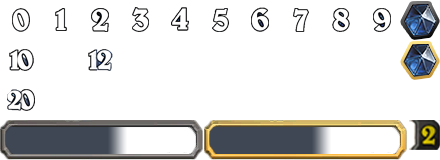
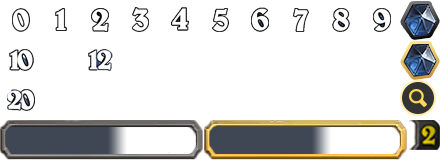
编辑卡牌左边完成

Changed region(s): [[0.8864, 0.5, 1.0, 0.75]]

diff --git a/data-lushichuanshuo-ka.html b/data-lushichuanshuo-ka.html
@@ -183,21 +183,82 @@
     
 	<div class="main">
     	<div class="head">
-        	<div class="group group_change">
-            	<div class="item">职业</div>
-                <div class="item">中立</div>
+        	<div class="td">
+            	<div class="group group_change">
+                    <div class="item on">职业</div>
+                    <div class="item">中立</div>
+                </div>
             </div>
-            <div class="group group_select">
-            	 稀有度
-                 <i></i>
+            <div class="td">
+            	<div class="group group_select">
+                    <div class="item">稀有度</div>
+                 	<i class="arrow"></i>
+                </div>
             </div>
-            <div class="group group_select">
-            	 费用
-                 <i></i>
+            <div class="td">
+            	<div class="group group_select">
+					<div class="item">费用</div>
+                 	<i class="arrow"></i>
+                </div>
             </div>
         </div>
-        <div class="concent">
+        <div class="maincard" id="maincard">
         	<div class="item">
+            	<div class="pic"><img src="images/lushichuanshuo/DBPic/79_7523_thumb.png"></div>
+                <div class="zoom"></div>
+                <p>恐怖的奴隶主恐怖</p>
+            </div>
+            <div class="item">
+            	<div class="pic"><img src="images/lushichuanshuo/DBPic/79_7523_thumb.png"></div>
+                <div class="zoom"></div>
+                <p>恐怖的奴隶主</p>
+            </div>
+            <div class="item">
+            	<div class="pic"><img src="images/lushichuanshuo/DBPic/79_7523_thumb.png"></div>
+                <div class="zoom"></div>
+                <p>恐怖的奴隶主</p>
+            </div>
+            <div class="item">
+            	<div class="pic"><img src="images/lushichuanshuo/DBPic/79_7523_thumb.png"></div>
+                <div class="zoom"></div>
+                <p>恐怖的奴隶主</p>
+            </div>
+            <div class="item">
+            	<div class="pic"><img src="images/lushichuanshuo/DBPic/79_7523_thumb.png"></div>
+                <div class="zoom"></div>
+                <p>恐怖的奴隶主恐怖</p>
+            </div>
+            <div class="item">
+            	<div class="pic"><img src="images/lushichuanshuo/DBPic/79_7523_thumb.png"></div>
+                <div class="zoom"></div>
+                <p>恐怖的奴隶主</p>
+            </div>
+            <div class="item">
+            	<div class="pic"><img src="images/lushichuanshuo/DBPic/79_7523_thumb.png"></div>
+                <div class="zoom"></div>
+                <p>恐怖的奴隶主</p>
+            </div>
+            <div class="item">
+            	<div class="pic"><img src="images/lushichuanshuo/DBPic/79_7523_thumb.png"></div>
+                <div class="zoom"></div>
+                <p>恐怖的奴隶主</p>
+            </div>
+            <div class="item">
+            	<div class="pic"><img src="images/lushichuanshuo/DBPic/79_7523_thumb.png"></div>
+                <div class="zoom"></div>
+                <p>恐怖的奴隶主恐怖</p>
+            </div>
+            <div class="item">
+            	<div class="pic"><img src="images/lushichuanshuo/DBPic/79_7523_thumb.png"></div>
+                <div class="zoom"></div>
+                <p>恐怖的奴隶主</p>
+            </div>
+            <div class="item">
+            	<div class="pic"><img src="images/lushichuanshuo/DBPic/79_7523_thumb.png"></div>
+                <div class="zoom"></div>
+                <p>恐怖的奴隶主</p>
+            </div>
+            <div class="item">
             	<div class="pic"><img src="images/lushichuanshuo/DBPic/79_7523_thumb.png"></div>
                 <div class="zoom"></div>
                 <p>恐怖的奴隶主</p>
@@ -217,7 +278,10 @@ $(function(){
 	if(win_h > body_h){
 		$(".ka_body").height(win_h);
 	}
+	$("#maincard").height(win_h-86);
 	
+	
+
 /*
 a:卡牌组类别
 b:卡牌id
@@ -228,8 +292,9 @@ f:稀有度
 g:构筑评分
 h:竞技场评分
 i:画师语录
+var data_cards = [{a:"中立",data:[{b:123,c:"恐怖的奴隶主",d:1,e:"79_7523_thumb.png",f:1,g:9,h:6,i:"有些德鲁伊做梦的时候都会被陌生人的“给我个激活！”的喊叫声惊醒"},{}]}];
 */
-	var data_cards = [{a:"中立",data:[{b:123,c:"恐怖的奴隶主",d:1,e:"79_7523_thumb.png",f:1,g:9,h:6,i:"有些德鲁伊做梦的时候都会被陌生人的“给我个激活！”的喊叫声惊醒"},{}]}];
+	
 
 
 });

diff --git a/css/lushichuanshuo.css b/css/lushichuanshuo.css
@@ -126,14 +126,23 @@ a{ text-decoration:none}
 .ka_add .aside_bottom{ position:absolute; bottom:0; text-align:center; width:100%; z-index:3}
 .ka_add .aside_bottom div{ color:#fff; font-size:1.6rem}
 .ka_add .aside_bottom a{ background:url(../images/lushichuanshuo/ka-btn.png) -4px -73px no-repeat; background-size:220px; width:106px; height:44px; display:block}
+
 .ka_add .main{ margin-right:115px}
-
-
-
-
-
-
-
+.ka_add .main .head{ height:30px; padding-top:6px; overflow:hidden; display:table; width:100%}
+.ka_add .main .head .td{ display:table-cell; text-align:center}
+.ka_add .main .head .group{ font-size:1.2rem; display:inline-block}
+.ka_add .main .head .group .item{ float:left; color:#ffd957}
+.ka_add .main .head .group_change .item{ border:1px solid #ffd957}
+.ka_add .main .head .group_change .item:first-child{ border-radius:30px 0 0 30px; padding:1px 3px 1px 7px}
+.ka_add .main .head .group_change .item:last-child{ border-radius:0 30px 30px 0; padding:1px 7px 1px 3px}
+.ka_add .main .head .group_change .on{ background:#ffd957; color:#2f2a21}
+.ka_add .main .head .group_select{ padding:1px 18px 1px 9px; position:relative; border:1px solid #ffd957; border-radius:30px}
+.ka_add .main .head .group_select .arrow{ border-width:4px; border-style:solid dashed dashed; border-color:#ffd957 transparent transparent; position:absolute; top:9px; right:5px}
+.ka_add .maincard{ overflow-y:auto}
+.ka_add .maincard .item{ float:left; width:33.33%; color:#fde69f; text-align:center; position:relative}
+.ka_add .maincard .zoom{ background:url(../images/lushichuanshuo/ka-number.png) -200px -40px no-repeat; width:18px; height:18px; background-size:220px; position:absolute; top:5px; right:5px}
+.ka_add .maincard .item .pic{ margin:5px}
+.ka_add .maincard .item p{ font-size:1.2rem; height:36px; line-height:1.2}
 
 
 
